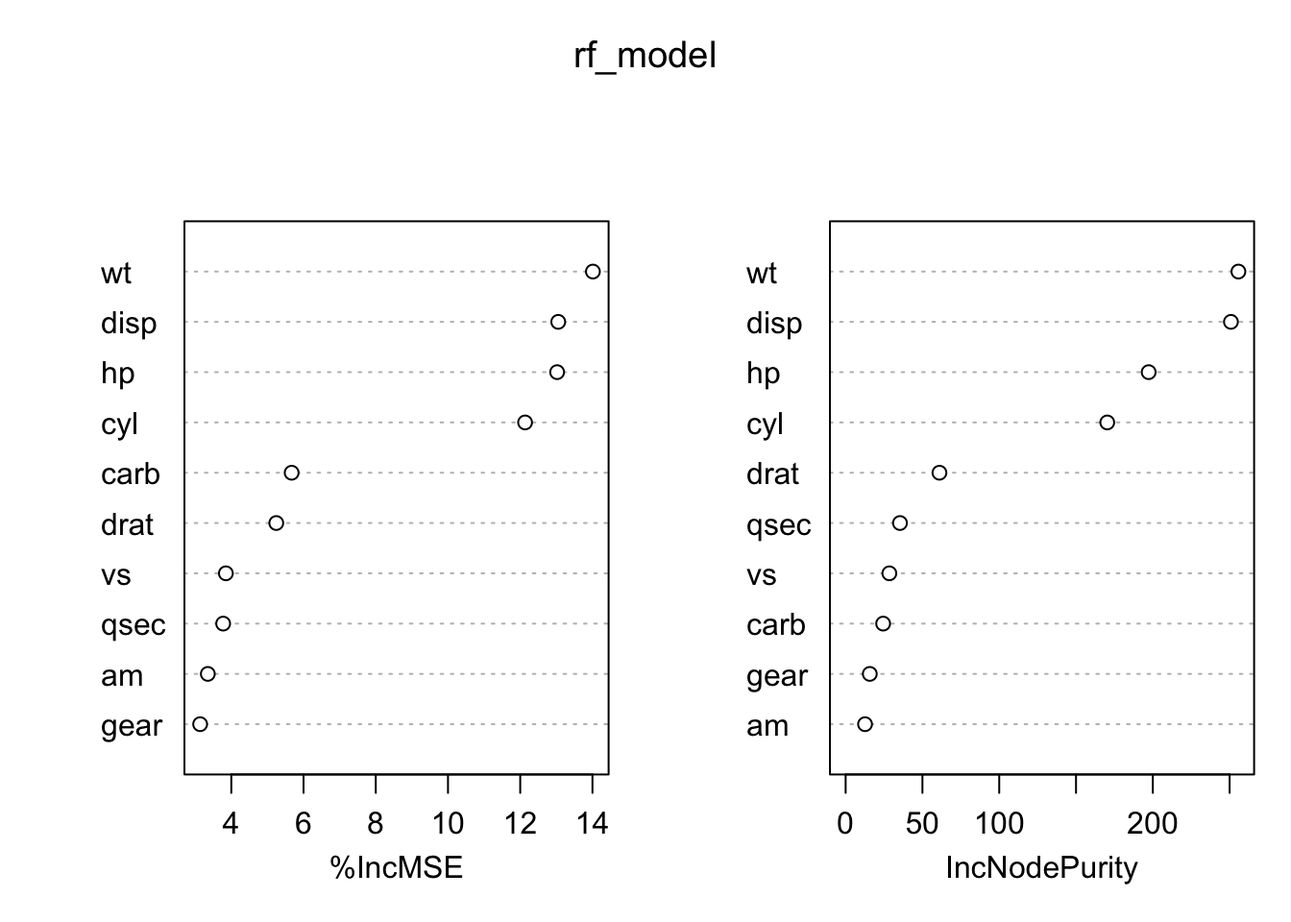
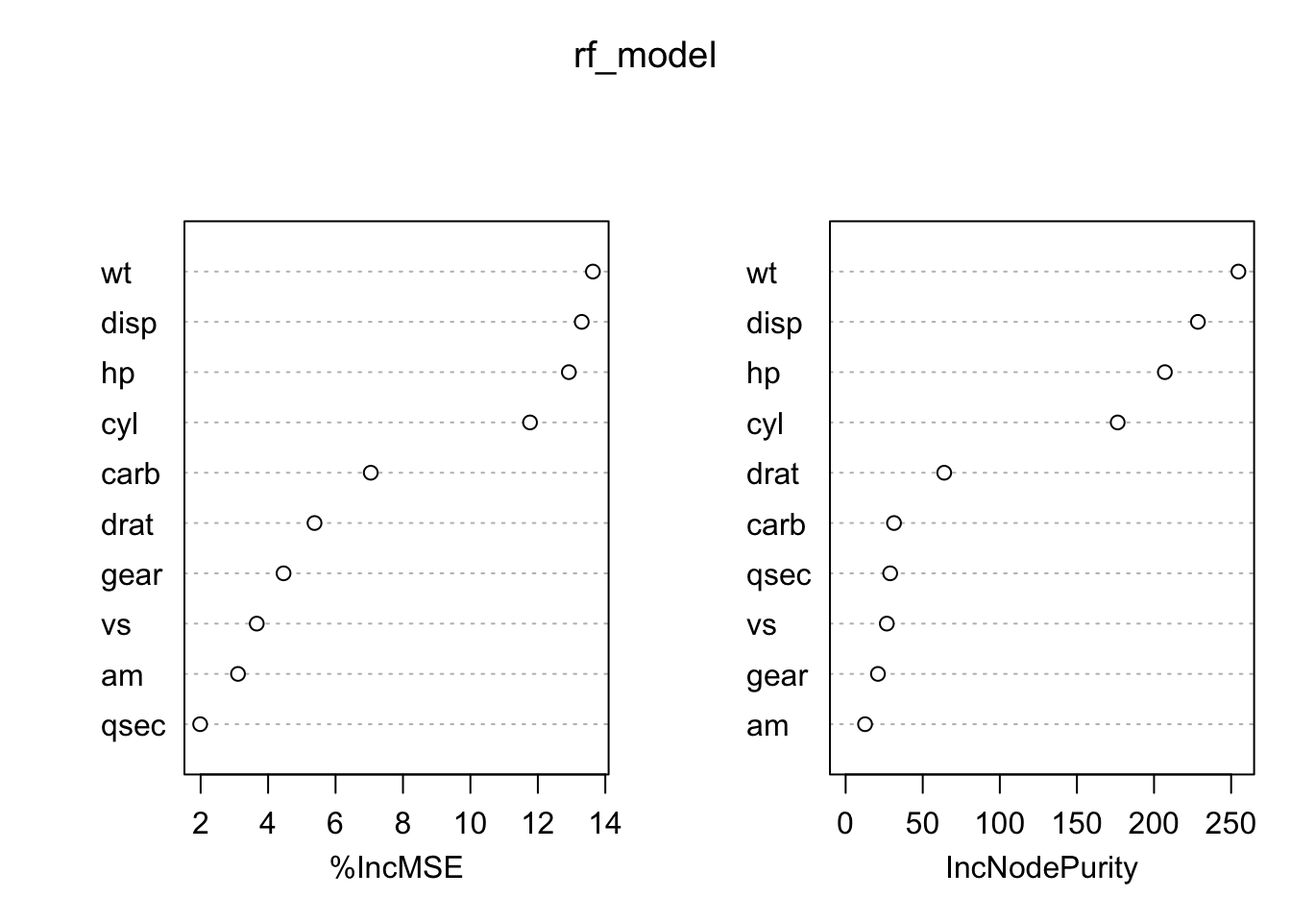
Built site for gh-pages

diff --git a/blog/reproducible-research-r-vs-python.html b/blog/reproducible-research-r-vs-python.html
@@ -531,8 +531,8 @@ F-statistic: 70.91 on 2 and 29 DF,  p-value: 6.809e-12</code></pre>
 <span id="cb12-9"><a href="#cb12-9" aria-hidden="true" tabindex="-1"></a><span class="fu">ggplotly</span>(p)</span></code><button title="Copy to Clipboard" class="code-copy-button"><i class="bi"></i></button></pre></div>
 </details>
 <div class="cell-output-display">
-<div class="plotly html-widget html-fill-item" id="htmlwidget-c5851ebdb1884abc7126" style="width:100%;height:464px;"></div>
-<script type="application/json" data-for="htmlwidget-c5851ebdb1884abc7126">{"x":{"data":[{"x":[2.3199999999999998,3.1899999999999999,3.1499999999999999,2.2000000000000002,1.615,1.835,2.4649999999999999,1.9350000000000001,2.1400000000000001,1.5129999999999999,2.7799999999999998],"y":[22.800000000000001,24.399999999999999,22.800000000000001,32.399999999999999,30.399999999999999,33.899999999999999,21.5,27.300000000000001,26,30.399999999999999,21.399999999999999],"text":["wt: 2.320<br />mpg: 22.8<br />factor(cyl): 4","wt: 3.190<br />mpg: 24.4<br />factor(cyl): 4","wt: 3.150<br />mpg: 22.8<br />factor(cyl): 4","wt: 2.200<br />mpg: 32.4<br />factor(cyl): 4","wt: 1.615<br />mpg: 30.4<br />factor(cyl): 4","wt: 1.835<br />mpg: 33.9<br />factor(cyl): 4","wt: 2.465<br />mpg: 21.5<br />factor(cyl): 4","wt: 1.935<br />mpg: 27.3<br />factor(cyl): 4","wt: 2.140<br />mpg: 26.0<br />factor(cyl): 4","wt: 1.513<br />mpg: 30.4<br />factor(cyl): 4","wt: 2.780<br />mpg: 21.4<br />factor(cyl): 4"],"type":"scatter","mode":"markers","marker":{"autocolorscale":false,"color":"rgba(248,118,109,1)","opacity":1,"size":5.6692913385826778,"symbol":"circle","line":{"width":1.8897637795275593,"color":"rgba(248,118,109,1)"}},"hoveron":"points","name":"4","legendgroup":"4","showlegend":true,"xaxis":"x","yaxis":"y","hoverinfo":"text","frame":null},{"x":[2.6200000000000001,2.875,3.2149999999999999,3.46,3.4399999999999999,3.4399999999999999,2.77],"y":[21,21,21.399999999999999,18.100000000000001,19.199999999999999,17.800000000000001,19.699999999999999],"text":["wt: 2.620<br />mpg: 21.0<br />factor(cyl): 6","wt: 2.875<br />mpg: 21.0<br />factor(cyl): 6","wt: 3.215<br />mpg: 21.4<br />factor(cyl): 6","wt: 3.460<br />mpg: 18.1<br />factor(cyl): 6","wt: 3.440<br />mpg: 19.2<br />factor(cyl): 6","wt: 3.440<br />mpg: 17.8<br />factor(cyl): 6","wt: 2.770<br />mpg: 19.7<br />factor(cyl): 6"],"type":"scatter","mode":"markers","marker":{"autocolorscale":false,"color":"rgba(0,186,56,1)","opacity":1,"size":5.6692913385826778,"symbol":"circle","line":{"width":1.8897637795275593,"color":"rgba(0,186,56,1)"}},"hoveron":"points","name":"6","legendgroup":"6","showlegend":true,"xaxis":"x","yaxis":"y","hoverinfo":"text","frame":null},{"x":[3.4399999999999999,3.5699999999999998,4.0700000000000003,3.73,3.7799999999999998,5.25,5.4240000000000004,5.3449999999999998,3.52,3.4350000000000001,3.8399999999999999,3.8450000000000002,3.1699999999999999,3.5699999999999998],"y":[18.699999999999999,14.300000000000001,16.399999999999999,17.300000000000001,15.199999999999999,10.4,10.4,14.699999999999999,15.5,15.199999999999999,13.300000000000001,19.199999999999999,15.800000000000001,15],"text":["wt: 3.440<br />mpg: 18.7<br />factor(cyl): 8","wt: 3.570<br />mpg: 14.3<br />factor(cyl): 8","wt: 4.070<br />mpg: 16.4<br />factor(cyl): 8","wt: 3.730<br />mpg: 17.3<br />factor(cyl): 8","wt: 3.780<br />mpg: 15.2<br />factor(cyl): 8","wt: 5.250<br />mpg: 10.4<br />factor(cyl): 8","wt: 5.424<br />mpg: 10.4<br />factor(cyl): 8","wt: 5.345<br />mpg: 14.7<br />factor(cyl): 8","wt: 3.520<br />mpg: 15.5<br />factor(cyl): 8","wt: 3.435<br />mpg: 15.2<br />factor(cyl): 8","wt: 3.840<br />mpg: 13.3<br />factor(cyl): 8","wt: 3.845<br />mpg: 19.2<br />factor(cyl): 8","wt: 3.170<br />mpg: 15.8<br />factor(cyl): 8","wt: 3.570<br />mpg: 15.0<br />factor(cyl): 8"],"type":"scatter","mode":"markers","marker":{"autocolorscale":false,"color":"rgba(97,156,255,1)","opacity":1,"size":5.6692913385826778,"symbol":"circle","line":{"width":1.8897637795275593,"color":"rgba(97,156,255,1)"}},"hoveron":"points","name":"8","legendgroup":"8","showlegend":true,"xaxis":"x","yaxis":"y","hoverinfo":"text","frame":null}],"layout":{"margin":{"t":26.228310502283108,"r":7.3059360730593621,"b":40.182648401826498,"l":37.260273972602747},"font":{"color":"rgba(0,0,0,1)","family":"","size":14.611872146118724},"xaxis":{"domain":[0,1],"automargin":true,"type":"linear","autorange":false,"range":[1.3174499999999998,5.6195500000000003],"tickmode":"array","ticktext":["2","3","4","5"],"tickvals":[2,3,4,5],"categoryorder":"array","categoryarray":["2","3","4","5"],"nticks":null,"ticks":"","tickcolor":null,"ticklen":3.6529680365296811,"tickwidth":0,"showticklabels":true,"tickfont":{"color":"rgba(77,77,77,1)","family":"","size":11.68949771689498},"tickangle":-0,"showline":false,"linecolor":null,"linewidth":0,"showgrid":true,"gridcolor":"rgba(235,235,235,1)","gridwidth":0.66417600664176002,"zeroline":false,"anchor":"y","title":{"text":"wt","font":{"color":"rgba(0,0,0,1)","family":"","size":14.611872146118724}},"hoverformat":".2f"},"yaxis":{"domain":[0,1],"automargin":true,"type":"linear","autorange":false,"range":[9.2249999999999996,35.074999999999996],"tickmode":"array","ticktext":["10","15","20","25","30","35"],"tickvals":[10,15,20,25,30,35],"categoryorder":"array","categoryarray":["10","15","20","25","30","35"],"nticks":null,"ticks":"","tickcolor":null,"ticklen":3.6529680365296811,"tickwidth":0,"showticklabels":true,"tickfont":{"color":"rgba(77,77,77,1)","family":"","size":11.68949771689498},"tickangle":-0,"showline":false,"linecolor":null,"linewidth":0,"showgrid":true,"gridcolor":"rgba(235,235,235,1)","gridwidth":0.66417600664176002,"zeroline":false,"anchor":"x","title":{"text":"mpg","font":{"color":"rgba(0,0,0,1)","family":"","size":14.611872146118724}},"hoverformat":".2f"},"shapes":[{"type":"rect","fillcolor":null,"line":{"color":null,"width":0,"linetype":[]},"yref":"paper","xref":"paper","layer":"below","x0":0,"x1":1,"y0":0,"y1":1}],"showlegend":true,"legend":{"bgcolor":null,"bordercolor":null,"borderwidth":0,"font":{"color":"rgba(0,0,0,1)","family":"","size":11.68949771689498},"title":{"text":"factor(cyl)","font":{"color":"rgba(0,0,0,1)","family":"","size":14.611872146118724}}},"hovermode":"closest","barmode":"relative"},"config":{"doubleClick":"reset","modeBarButtonsToAdd":["hoverclosest","hovercompare"],"showSendToCloud":false},"source":"A","attrs":{"c3fc1f81474f":{"x":{},"y":{},"colour":{},"type":"scatter"}},"cur_data":"c3fc1f81474f","visdat":{"c3fc1f81474f":["function (y) ","x"]},"highlight":{"on":"plotly_click","persistent":false,"dynamic":false,"selectize":false,"opacityDim":0.20000000000000001,"selected":{"opacity":1},"debounce":0},"shinyEvents":["plotly_hover","plotly_click","plotly_selected","plotly_relayout","plotly_brushed","plotly_brushing","plotly_clickannotation","plotly_doubleclick","plotly_deselect","plotly_afterplot","plotly_sunburstclick"],"base_url":"https://plot.ly"},"evals":[],"jsHooks":[]}</script>
+<div class="plotly html-widget html-fill-item" id="htmlwidget-7d97aec88c0efdbe97c2" style="width:100%;height:464px;"></div>
+<script type="application/json" data-for="htmlwidget-7d97aec88c0efdbe97c2">{"x":{"data":[{"x":[2.3199999999999998,3.1899999999999999,3.1499999999999999,2.2000000000000002,1.615,1.835,2.4649999999999999,1.9350000000000001,2.1400000000000001,1.5129999999999999,2.7799999999999998],"y":[22.800000000000001,24.399999999999999,22.800000000000001,32.399999999999999,30.399999999999999,33.899999999999999,21.5,27.300000000000001,26,30.399999999999999,21.399999999999999],"text":["wt: 2.320<br />mpg: 22.8<br />factor(cyl): 4","wt: 3.190<br />mpg: 24.4<br />factor(cyl): 4","wt: 3.150<br />mpg: 22.8<br />factor(cyl): 4","wt: 2.200<br />mpg: 32.4<br />factor(cyl): 4","wt: 1.615<br />mpg: 30.4<br />factor(cyl): 4","wt: 1.835<br />mpg: 33.9<br />factor(cyl): 4","wt: 2.465<br />mpg: 21.5<br />factor(cyl): 4","wt: 1.935<br />mpg: 27.3<br />factor(cyl): 4","wt: 2.140<br />mpg: 26.0<br />factor(cyl): 4","wt: 1.513<br />mpg: 30.4<br />factor(cyl): 4","wt: 2.780<br />mpg: 21.4<br />factor(cyl): 4"],"type":"scatter","mode":"markers","marker":{"autocolorscale":false,"color":"rgba(248,118,109,1)","opacity":1,"size":5.6692913385826778,"symbol":"circle","line":{"width":1.8897637795275593,"color":"rgba(248,118,109,1)"}},"hoveron":"points","name":"4","legendgroup":"4","showlegend":true,"xaxis":"x","yaxis":"y","hoverinfo":"text","frame":null},{"x":[2.6200000000000001,2.875,3.2149999999999999,3.46,3.4399999999999999,3.4399999999999999,2.77],"y":[21,21,21.399999999999999,18.100000000000001,19.199999999999999,17.800000000000001,19.699999999999999],"text":["wt: 2.620<br />mpg: 21.0<br />factor(cyl): 6","wt: 2.875<br />mpg: 21.0<br />factor(cyl): 6","wt: 3.215<br />mpg: 21.4<br />factor(cyl): 6","wt: 3.460<br />mpg: 18.1<br />factor(cyl): 6","wt: 3.440<br />mpg: 19.2<br />factor(cyl): 6","wt: 3.440<br />mpg: 17.8<br />factor(cyl): 6","wt: 2.770<br />mpg: 19.7<br />factor(cyl): 6"],"type":"scatter","mode":"markers","marker":{"autocolorscale":false,"color":"rgba(0,186,56,1)","opacity":1,"size":5.6692913385826778,"symbol":"circle","line":{"width":1.8897637795275593,"color":"rgba(0,186,56,1)"}},"hoveron":"points","name":"6","legendgroup":"6","showlegend":true,"xaxis":"x","yaxis":"y","hoverinfo":"text","frame":null},{"x":[3.4399999999999999,3.5699999999999998,4.0700000000000003,3.73,3.7799999999999998,5.25,5.4240000000000004,5.3449999999999998,3.52,3.4350000000000001,3.8399999999999999,3.8450000000000002,3.1699999999999999,3.5699999999999998],"y":[18.699999999999999,14.300000000000001,16.399999999999999,17.300000000000001,15.199999999999999,10.4,10.4,14.699999999999999,15.5,15.199999999999999,13.300000000000001,19.199999999999999,15.800000000000001,15],"text":["wt: 3.440<br />mpg: 18.7<br />factor(cyl): 8","wt: 3.570<br />mpg: 14.3<br />factor(cyl): 8","wt: 4.070<br />mpg: 16.4<br />factor(cyl): 8","wt: 3.730<br />mpg: 17.3<br />factor(cyl): 8","wt: 3.780<br />mpg: 15.2<br />factor(cyl): 8","wt: 5.250<br />mpg: 10.4<br />factor(cyl): 8","wt: 5.424<br />mpg: 10.4<br />factor(cyl): 8","wt: 5.345<br />mpg: 14.7<br />factor(cyl): 8","wt: 3.520<br />mpg: 15.5<br />factor(cyl): 8","wt: 3.435<br />mpg: 15.2<br />factor(cyl): 8","wt: 3.840<br />mpg: 13.3<br />factor(cyl): 8","wt: 3.845<br />mpg: 19.2<br />factor(cyl): 8","wt: 3.170<br />mpg: 15.8<br />factor(cyl): 8","wt: 3.570<br />mpg: 15.0<br />factor(cyl): 8"],"type":"scatter","mode":"markers","marker":{"autocolorscale":false,"color":"rgba(97,156,255,1)","opacity":1,"size":5.6692913385826778,"symbol":"circle","line":{"width":1.8897637795275593,"color":"rgba(97,156,255,1)"}},"hoveron":"points","name":"8","legendgroup":"8","showlegend":true,"xaxis":"x","yaxis":"y","hoverinfo":"text","frame":null}],"layout":{"margin":{"t":26.228310502283108,"r":7.3059360730593621,"b":40.182648401826498,"l":37.260273972602747},"font":{"color":"rgba(0,0,0,1)","family":"","size":14.611872146118724},"xaxis":{"domain":[0,1],"automargin":true,"type":"linear","autorange":false,"range":[1.3174499999999998,5.6195500000000003],"tickmode":"array","ticktext":["2","3","4","5"],"tickvals":[2,3,4,5],"categoryorder":"array","categoryarray":["2","3","4","5"],"nticks":null,"ticks":"","tickcolor":null,"ticklen":3.6529680365296811,"tickwidth":0,"showticklabels":true,"tickfont":{"color":"rgba(77,77,77,1)","family":"","size":11.68949771689498},"tickangle":-0,"showline":false,"linecolor":null,"linewidth":0,"showgrid":true,"gridcolor":"rgba(235,235,235,1)","gridwidth":0.66417600664176002,"zeroline":false,"anchor":"y","title":{"text":"wt","font":{"color":"rgba(0,0,0,1)","family":"","size":14.611872146118724}},"hoverformat":".2f"},"yaxis":{"domain":[0,1],"automargin":true,"type":"linear","autorange":false,"range":[9.2249999999999996,35.074999999999996],"tickmode":"array","ticktext":["10","15","20","25","30","35"],"tickvals":[10,15,20,25,30,35],"categoryorder":"array","categoryarray":["10","15","20","25","30","35"],"nticks":null,"ticks":"","tickcolor":null,"ticklen":3.6529680365296811,"tickwidth":0,"showticklabels":true,"tickfont":{"color":"rgba(77,77,77,1)","family":"","size":11.68949771689498},"tickangle":-0,"showline":false,"linecolor":null,"linewidth":0,"showgrid":true,"gridcolor":"rgba(235,235,235,1)","gridwidth":0.66417600664176002,"zeroline":false,"anchor":"x","title":{"text":"mpg","font":{"color":"rgba(0,0,0,1)","family":"","size":14.611872146118724}},"hoverformat":".2f"},"shapes":[{"type":"rect","fillcolor":null,"line":{"color":null,"width":0,"linetype":[]},"yref":"paper","xref":"paper","layer":"below","x0":0,"x1":1,"y0":0,"y1":1}],"showlegend":true,"legend":{"bgcolor":null,"bordercolor":null,"borderwidth":0,"font":{"color":"rgba(0,0,0,1)","family":"","size":11.68949771689498},"title":{"text":"factor(cyl)","font":{"color":"rgba(0,0,0,1)","family":"","size":14.611872146118724}}},"hovermode":"closest","barmode":"relative"},"config":{"doubleClick":"reset","modeBarButtonsToAdd":["hoverclosest","hovercompare"],"showSendToCloud":false},"source":"A","attrs":{"ca6b430faac6":{"x":{},"y":{},"colour":{},"type":"scatter"}},"cur_data":"ca6b430faac6","visdat":{"ca6b430faac6":["function (y) ","x"]},"highlight":{"on":"plotly_click","persistent":false,"dynamic":false,"selectize":false,"opacityDim":0.20000000000000001,"selected":{"opacity":1},"debounce":0},"shinyEvents":["plotly_hover","plotly_click","plotly_selected","plotly_relayout","plotly_brushed","plotly_brushing","plotly_clickannotation","plotly_doubleclick","plotly_deselect","plotly_afterplot","plotly_sunburstclick"],"base_url":"https://plot.ly"},"evals":[],"jsHooks":[]}</script>
 </div>
 </div>
 </section>

diff --git a/community.html b/community.html
@@ -198,7 +198,7 @@ pre > code.sourceCode > span > a:first-child::before { text-decoration: underlin
 <h3 data-number="1.1" class="anchored" data-anchor-id="heres-what-people-had-to-say."><span class="header-section-number">1.1</span> Here’s what people had to say.</h3>
 <div class="quarto-figure quarto-figure-center">
 <figure class="figure">
-<p><img src="community-images/simisani_ndaba.jpeg" class="img-fluid figure-img"></p>
+<p><img src="community-images/simisani_ndaba.png" class="img-fluid figure-img"></p>
 <figcaption>Simisani Ndaba, University of Botswana, co-founder and co-organizer of the R-Ladies Gaborone group</figcaption>
 </figure>
 </div>
@@ -212,6 +212,30 @@ University of Botswana, co-founder and co-organizer of the R-Ladies Gaborone gro
 <p><strong>Her opinion on the podcast:</strong></p>
 <blockquote class="blockquote">
 <p>The hosts have a solid grasp of R, not just in terms of its technical capabilities, but also more importantly, how and when it should be used in academia, providing great examples of situations in which R is and will remain necessary to many scholars. The discussion is at a sweet spot along the technical-to-accessible spectrum; it is technical enough to convey the message that R is good for specific things but does not imply that Python is uninviting. In summary, it is a well-produced and well-paced podcast that makes the case for R’s continued place in the statistics academy in an interesting way.</p>
+</blockquote>
+<hr>
+<div class="quarto-figure quarto-figure-center">
+<figure class="figure">
+<p><img src="community-images/ridwan_adejumo.png" class="img-fluid figure-img"></p>
+<figcaption>Ridwan Suleiman Adejumo, College of Nursing Science, Federal Teaching Hospital, Gombe, Data Scientist and Biostatistician</figcaption>
+</figure>
+</div>
+<p><strong>Ridwan Suleiman Adejumo</strong><br>
+College of Nursing Science, Federal Teaching Hospital, Gombe<br>
+Data Scientist and Biostatistician</p>
+<blockquote class="blockquote">
+<p>This is great, as the number of individuals trying to learn R is declining, and most people think R is meant for those in academia or Pharma. I think instead of showing R strengths, places where Python excel like llm development, prompt engineering, and AI agent development should be emphasized in R. Most individuals are not familiar that R can also do a lot of these things.</p>
+<p>Web development should not also be left behind, like developing APIs and backend applications with R.</p>
+</blockquote>
+<hr>
+<p><strong>His recommendations to improve content:</strong></p>
+<blockquote class="blockquote">
+<p>Statistical Modeling: Why R Outperforms Python The article lacks proper explanation of what’s happening in the code, and there is not test to actually measure the strengths and weakness of Python and R.</p>
+</blockquote>
+<hr>
+<p><strong>His opinion on the podcast:</strong></p>
+<blockquote class="blockquote">
+<p>I like the podcast, and it’s clear and interactive. The presenters explained a lot of the strengths of R.</p>
 </blockquote>
 <p><em>More community testimonials and feedback will be added here as we grow.</em></p>
 <hr>
@@ -710,7 +734,7 @@ window.document.addEventListener("DOMContentLoaded", function (event) {
 <span id="cb1-8"><a href="#cb1-8" aria-hidden="true" tabindex="-1"></a></span>
 <span id="cb1-9"><a href="#cb1-9" aria-hidden="true" tabindex="-1"></a><span class="fu">### Here's what people had to say.</span></span>
 <span id="cb1-10"><a href="#cb1-10" aria-hidden="true" tabindex="-1"></a></span>
-<span id="cb1-11"><a href="#cb1-11" aria-hidden="true" tabindex="-1"></a><span class="al">![Simisani Ndaba, University of Botswana, co-founder and co-organizer of the R-Ladies Gaborone group](community-images/simisani_ndaba.jpeg)</span></span>
+<span id="cb1-11"><a href="#cb1-11" aria-hidden="true" tabindex="-1"></a><span class="al">![Simisani Ndaba, University of Botswana, co-founder and co-organizer of the R-Ladies Gaborone group](community-images/simisani_ndaba.png)</span></span>
 <span id="cb1-12"><a href="#cb1-12" aria-hidden="true" tabindex="-1"></a></span>
 <span id="cb1-13"><a href="#cb1-13" aria-hidden="true" tabindex="-1"></a>**Simisani Ndaba**  </span>
 <span id="cb1-14"><a href="#cb1-14" aria-hidden="true" tabindex="-1"></a>University of Botswana, co-founder and co-organizer of the R-Ladies Gaborone group</span>
@@ -723,13 +747,38 @@ window.document.addEventListener("DOMContentLoaded", function (event) {
 <span id="cb1-21"><a href="#cb1-21" aria-hidden="true" tabindex="-1"></a></span>
 <span id="cb1-22"><a href="#cb1-22" aria-hidden="true" tabindex="-1"></a>**Her opinion on the podcast:**</span>
 <span id="cb1-23"><a href="#cb1-23" aria-hidden="true" tabindex="-1"></a></span>
-<span id="cb1-24"><a href="#cb1-24" aria-hidden="true" tabindex="-1"></a><span class="at">&gt; The hosts have a solid grasp of R, not just in terms of its technical capabilities, but also more importantly, how and when it should be used in academia, providing great examples of situations in which R is and will remain necessary to many scholars. The discussion is at a sweet spot along the technical-to-accessible spectrum; it is technical enough to convey the message that R is good for specific things but does not imply that Python is uninviting. In summary, it is a well-produced and well-paced podcast that makes the case for R’s continued place in the statistics academy in an interesting way.</span></span>
+<span id="cb1-24"><a href="#cb1-24" aria-hidden="true" tabindex="-1"></a><span class="at">&gt; The hosts have a solid grasp of R, not just in terms of its technical capabilities, but also more importantly, how and when it should be used in academia, providing great examples of situations in which R is and will remain necessary to many scholars. The discussion is at a sweet spot along the technical-to-accessible spectrum; it is technical enough to convey the message that R is good for specific things but does not imply that Python is uninviting. In summary, it is a well-produced and well-paced podcast that makes the case for R's continued place in the statistics academy in an interesting way.</span></span>
 <span id="cb1-25"><a href="#cb1-25" aria-hidden="true" tabindex="-1"></a></span>
-<span id="cb1-26"><a href="#cb1-26" aria-hidden="true" tabindex="-1"></a>*More community testimonials and feedback will be added here as we grow.*</span>
+<span id="cb1-26"><a href="#cb1-26" aria-hidden="true" tabindex="-1"></a>---</span>
 <span id="cb1-27"><a href="#cb1-27" aria-hidden="true" tabindex="-1"></a></span>
-<span id="cb1-28"><a href="#cb1-28" aria-hidden="true" tabindex="-1"></a>---</span>
+<span id="cb1-28"><a href="#cb1-28" aria-hidden="true" tabindex="-1"></a><span class="al">![Ridwan Suleiman Adejumo, College of Nursing Science, Federal Teaching Hospital, Gombe, Data Scientist and Biostatistician](community-images/ridwan_adejumo.png)</span></span>
 <span id="cb1-29"><a href="#cb1-29" aria-hidden="true" tabindex="-1"></a></span>
-<span id="cb1-30"><a href="#cb1-30" aria-hidden="true" tabindex="-1"></a>*Join our community and help shape the future of R Beats Python.* </span></code><button title="Copy to Clipboard" class="code-copy-button" data-in-quarto-modal=""><i class="bi"></i></button></pre></div>
+<span id="cb1-30"><a href="#cb1-30" aria-hidden="true" tabindex="-1"></a>**Ridwan Suleiman Adejumo**  </span>
+<span id="cb1-31"><a href="#cb1-31" aria-hidden="true" tabindex="-1"></a>College of Nursing Science, Federal Teaching Hospital, Gombe  </span>
+<span id="cb1-32"><a href="#cb1-32" aria-hidden="true" tabindex="-1"></a>Data Scientist and Biostatistician</span>
+<span id="cb1-33"><a href="#cb1-33" aria-hidden="true" tabindex="-1"></a></span>
+<span id="cb1-34"><a href="#cb1-34" aria-hidden="true" tabindex="-1"></a><span class="at">&gt; This is great, as the number of individuals trying to learn R is declining, and most people think R is meant for those in academia or Pharma. I think instead of showing R strengths, places where Python excel like llm development, prompt engineering, and AI agent development should be emphasized in R. Most individuals are not familiar that R can also do a lot of these things.</span></span>
+<span id="cb1-35"><a href="#cb1-35" aria-hidden="true" tabindex="-1"></a><span class="at">&gt;</span></span>
+<span id="cb1-36"><a href="#cb1-36" aria-hidden="true" tabindex="-1"></a><span class="at">&gt; Web development should not also be left behind, like developing APIs and backend applications with R.</span></span>
+<span id="cb1-37"><a href="#cb1-37" aria-hidden="true" tabindex="-1"></a></span>
+<span id="cb1-38"><a href="#cb1-38" aria-hidden="true" tabindex="-1"></a>---</span>
+<span id="cb1-39"><a href="#cb1-39" aria-hidden="true" tabindex="-1"></a></span>
+<span id="cb1-40"><a href="#cb1-40" aria-hidden="true" tabindex="-1"></a>**His recommendations to improve content:**</span>
+<span id="cb1-41"><a href="#cb1-41" aria-hidden="true" tabindex="-1"></a></span>
+<span id="cb1-42"><a href="#cb1-42" aria-hidden="true" tabindex="-1"></a><span class="at">&gt; Statistical Modeling: Why R Outperforms Python</span></span>
+<span id="cb1-43"><a href="#cb1-43" aria-hidden="true" tabindex="-1"></a><span class="at">&gt; The article lacks proper explanation of what's happening in the code, and there is not test to actually measure the strengths and weakness of Python and R.</span></span>
+<span id="cb1-44"><a href="#cb1-44" aria-hidden="true" tabindex="-1"></a></span>
+<span id="cb1-45"><a href="#cb1-45" aria-hidden="true" tabindex="-1"></a>---</span>
+<span id="cb1-46"><a href="#cb1-46" aria-hidden="true" tabindex="-1"></a></span>
+<span id="cb1-47"><a href="#cb1-47" aria-hidden="true" tabindex="-1"></a>**His opinion on the podcast:**</span>
+<span id="cb1-48"><a href="#cb1-48" aria-hidden="true" tabindex="-1"></a></span>
+<span id="cb1-49"><a href="#cb1-49" aria-hidden="true" tabindex="-1"></a><span class="at">&gt; I like the podcast, and it's clear and interactive. The presenters explained a lot of the strengths of R.</span></span>
+<span id="cb1-50"><a href="#cb1-50" aria-hidden="true" tabindex="-1"></a></span>
+<span id="cb1-51"><a href="#cb1-51" aria-hidden="true" tabindex="-1"></a>*More community testimonials and feedback will be added here as we grow.*</span>
+<span id="cb1-52"><a href="#cb1-52" aria-hidden="true" tabindex="-1"></a></span>
+<span id="cb1-53"><a href="#cb1-53" aria-hidden="true" tabindex="-1"></a>---</span>
+<span id="cb1-54"><a href="#cb1-54" aria-hidden="true" tabindex="-1"></a></span>
+<span id="cb1-55"><a href="#cb1-55" aria-hidden="true" tabindex="-1"></a>*Join our community and help shape the future of R Beats Python.* </span></code><button title="Copy to Clipboard" class="code-copy-button" data-in-quarto-modal=""><i class="bi"></i></button></pre></div>
 </div></div></div></div></div>
 </div> <!-- /content -->
 

diff --git a/blog/machine-learning-r-vs-python.html b/blog/machine-learning-r-vs-python.html
@@ -453,16 +453,16 @@ Signif. codes:  0 '***' 0.001 '**' 0.01 '*' 0.05 '.' 0.1 ' ' 1</code></pre>
 </details>
 <div class="cell-output cell-output-stdout">
 <pre><code>       %IncMSE IncNodePurity
-cyl  12.134487     170.33201
-disp 13.052545     250.86295
-hp   13.021719     197.30288
-drat  5.245454      61.08100
-wt   14.012262     255.72348
-qsec  3.774548      35.37813
-vs    3.850112      28.46070
-am    3.350220      12.63276
-gear  3.137300      15.73011
-carb  5.671200      24.41823</code></pre>
+cyl  11.767708     176.41675
+disp 13.302091     228.45185
+hp   12.919588     207.02402
+drat  5.376666      63.92612
+wt   13.632410     254.70820
+qsec  1.984342      28.87912
+vs    3.663271      26.70093
+am    3.106836      12.58880
+gear  4.458383      20.94952
+carb  7.044388      31.37366</code></pre>
 </div>
 <details class="code-fold">
 <summary>Code</summary>
@@ -518,15 +518,15 @@ carb  5.671200      24.41823</code></pre>
 </div>
 <div class="cell-output cell-output-stdout">
 <pre><code>      var     rel.inf
-disp disp 39.99942971
-wt     wt 19.79558782
-hp     hp 18.27428815
-cyl   cyl 14.76386803
-qsec qsec  2.98962306
-drat drat  2.59317982
-carb carb  1.23475372
-gear gear  0.26204316
-vs     vs  0.08722652
+wt     wt 34.92417648
+hp     hp 29.36343552
+disp disp 18.96579860
+cyl   cyl 11.29558179
+drat drat  2.84894570
+qsec qsec  2.22214032
+carb carb  0.17919291
+gear gear  0.16961264
+vs     vs  0.03111605
 am     am  0.00000000</code></pre>
 </div>
 <details class="code-fold">
@@ -665,8 +665,8 @@ W = 0.93455, p-value = 0.05252</code></pre>
 <pre><code>
 SAMPLING FOR MODEL 'continuous' NOW (CHAIN 1).
 Chain 1: 
-Chain 1: Gradient evaluation took 0.000214 seconds
-Chain 1: 1000 transitions using 10 leapfrog steps per transition would take 2.14 seconds.
+Chain 1: Gradient evaluation took 0.000634 seconds
+Chain 1: 1000 transitions using 10 leapfrog steps per transition would take 6.34 seconds.
 Chain 1: Adjust your expectations accordingly!
 Chain 1: 
 Chain 1: 
@@ -683,15 +683,15 @@ Chain 1: Iteration: 1600 / 2000 [ 80%]  (Sampling)
 Chain 1: Iteration: 1800 / 2000 [ 90%]  (Sampling)
 Chain 1: Iteration: 2000 / 2000 [100%]  (Sampling)
 Chain 1: 
-Chain 1:  Elapsed Time: 0.04 seconds (Warm-up)
-Chain 1:                0.03 seconds (Sampling)
-Chain 1:                0.07 seconds (Total)
+Chain 1:  Elapsed Time: 0.031 seconds (Warm-up)
+Chain 1:                0.026 seconds (Sampling)
+Chain 1:                0.057 seconds (Total)
 Chain 1: 
 
 SAMPLING FOR MODEL 'continuous' NOW (CHAIN 2).
 Chain 2: 
-Chain 2: Gradient evaluation took 4e-06 seconds
-Chain 2: 1000 transitions using 10 leapfrog steps per transition would take 0.04 seconds.
+Chain 2: Gradient evaluation took 5e-06 seconds
+Chain 2: 1000 transitions using 10 leapfrog steps per transition would take 0.05 seconds.
 Chain 2: Adjust your expectations accordingly!
 Chain 2: 
 Chain 2: 
@@ -708,15 +708,15 @@ Chain 2: Iteration: 1600 / 2000 [ 80%]  (Sampling)
 Chain 2: Iteration: 1800 / 2000 [ 90%]  (Sampling)
 Chain 2: Iteration: 2000 / 2000 [100%]  (Sampling)
 Chain 2: 
-Chain 2:  Elapsed Time: 0.032 seconds (Warm-up)
-Chain 2:                0.03 seconds (Sampling)
-Chain 2:                0.062 seconds (Total)
+Chain 2:  Elapsed Time: 0.033 seconds (Warm-up)
+Chain 2:                0.033 seconds (Sampling)
+Chain 2:                0.066 seconds (Total)
 Chain 2: 
 
 SAMPLING FOR MODEL 'continuous' NOW (CHAIN 3).
 Chain 3: 
-Chain 3: Gradient evaluation took 3e-06 seconds
-Chain 3: 1000 transitions using 10 leapfrog steps per transition would take 0.03 seconds.
+Chain 3: Gradient evaluation took 4e-06 seconds
+Chain 3: 1000 transitions using 10 leapfrog steps per transition would take 0.04 seconds.
 Chain 3: Adjust your expectations accordingly!
 Chain 3: 
 Chain 3: 
@@ -733,9 +733,9 @@ Chain 3: Iteration: 1600 / 2000 [ 80%]  (Sampling)
 Chain 3: Iteration: 1800 / 2000 [ 90%]  (Sampling)
 Chain 3: Iteration: 2000 / 2000 [100%]  (Sampling)
 Chain 3: 
-Chain 3:  Elapsed Time: 0.029 seconds (Warm-up)
-Chain 3:                0.035 seconds (Sampling)
-Chain 3:                0.064 seconds (Total)
+Chain 3:  Elapsed Time: 0.032 seconds (Warm-up)
+Chain 3:                0.03 seconds (Sampling)
+Chain 3:                0.062 seconds (Total)
 Chain 3: 
 
 SAMPLING FOR MODEL 'continuous' NOW (CHAIN 4).
@@ -758,9 +758,9 @@ Chain 4: Iteration: 1600 / 2000 [ 80%]  (Sampling)
 Chain 4: Iteration: 1800 / 2000 [ 90%]  (Sampling)
 Chain 4: Iteration: 2000 / 2000 [100%]  (Sampling)
 Chain 4: 
-Chain 4:  Elapsed Time: 0.035 seconds (Warm-up)
-Chain 4:                0.031 seconds (Sampling)
-Chain 4:                0.066 seconds (Total)
+Chain 4:  Elapsed Time: 0.038 seconds (Warm-up)
+Chain 4:                0.036 seconds (Sampling)
+Chain 4:                0.074 seconds (Total)
 Chain 4: </code></pre>
 </div>
 <details class="code-fold">
@@ -770,10 +770,10 @@ Chain 4: </code></pre>
 </details>
 <div class="cell-output cell-output-stdout">
 <pre><code>                   5%        95%
-(Intercept) 36.634059 42.7738202
-wt          -4.467680 -1.8271259
-cyl         -2.264268 -0.8025825
-sigma        2.138169  3.3432458</code></pre>
+(Intercept) 36.602158 42.6371633
+wt          -4.454639 -1.8956190
+cyl         -2.193726 -0.7976425
+sigma        2.136489  3.3113942</code></pre>
 </div>
 <details class="code-fold">
 <summary>Code</summary>

diff --git a/blog/time-series-analysis-r-vs-python.html b/blog/time-series-analysis-r-vs-python.html
@@ -426,16 +426,16 @@ Model df: 1.   Total lags used: 5</code></pre>
 <span id="cb15-8"><a href="#cb15-8" aria-hidden="true" tabindex="-1"></a>bsts_model <span class="ot">&lt;-</span> <span class="fu">bsts</span>(ts_data, <span class="at">state.specification =</span> ss_model, <span class="at">niter =</span> <span class="dv">1000</span>)</span></code><button title="Copy to Clipboard" class="code-copy-button"><i class="bi"></i></button></pre></div>
 </details>
 <div class="cell-output cell-output-stdout">
-<pre><code>=-=-=-=-= Iteration 0 Fri Jul 11 11:44:14 2025 =-=-=-=-=
-=-=-=-=-= Iteration 100 Fri Jul 11 11:44:14 2025 =-=-=-=-=
-=-=-=-=-= Iteration 200 Fri Jul 11 11:44:14 2025 =-=-=-=-=
-=-=-=-=-= Iteration 300 Fri Jul 11 11:44:14 2025 =-=-=-=-=
-=-=-=-=-= Iteration 400 Fri Jul 11 11:44:14 2025 =-=-=-=-=
-=-=-=-=-= Iteration 500 Fri Jul 11 11:44:14 2025 =-=-=-=-=
-=-=-=-=-= Iteration 600 Fri Jul 11 11:44:14 2025 =-=-=-=-=
-=-=-=-=-= Iteration 700 Fri Jul 11 11:44:14 2025 =-=-=-=-=
-=-=-=-=-= Iteration 800 Fri Jul 11 11:44:14 2025 =-=-=-=-=
-=-=-=-=-= Iteration 900 Fri Jul 11 11:44:14 2025 =-=-=-=-=</code></pre>
+<pre><code>=-=-=-=-= Iteration 0 Fri Jul 11 12:02:10 2025 =-=-=-=-=
+=-=-=-=-= Iteration 100 Fri Jul 11 12:02:10 2025 =-=-=-=-=
+=-=-=-=-= Iteration 200 Fri Jul 11 12:02:10 2025 =-=-=-=-=
+=-=-=-=-= Iteration 300 Fri Jul 11 12:02:10 2025 =-=-=-=-=
+=-=-=-=-= Iteration 400 Fri Jul 11 12:02:10 2025 =-=-=-=-=
+=-=-=-=-= Iteration 500 Fri Jul 11 12:02:10 2025 =-=-=-=-=
+=-=-=-=-= Iteration 600 Fri Jul 11 12:02:10 2025 =-=-=-=-=
+=-=-=-=-= Iteration 700 Fri Jul 11 12:02:10 2025 =-=-=-=-=
+=-=-=-=-= Iteration 800 Fri Jul 11 12:02:10 2025 =-=-=-=-=
+=-=-=-=-= Iteration 900 Fri Jul 11 12:02:10 2025 =-=-=-=-=</code></pre>
 </div>
 <details class="code-fold">
 <summary>Code</summary>

diff --git a/blog/academic-research-r-vs-python.html b/blog/academic-research-r-vs-python.html
@@ -476,7 +476,7 @@ Signif. codes:  0 '***' 0.001 '**' 0.01 '*' 0.05 '.' 0.1 ' ' 1</code></pre>
 </details>
 <div class="cell-output cell-output-stdout">
 <pre><code>% latex table generated in R 4.5.0 by xtable 1.8-4 package
-% Fri Jul 11 11:44:02 2025
+% Fri Jul 11 12:01:59 2025
 \begin{table}[ht]
 \centering
 \begin{tabular}{rrrrr}
@@ -502,7 +502,7 @@ Signif. codes:  0 '***' 0.001 '**' 0.01 '*' 0.05 '.' 0.1 ' ' 1</code></pre>
 <div class="cell-output cell-output-stdout">
 <pre><code>
 % Table created by stargazer v.5.2.3 by Marek Hlavac, Social Policy Institute. E-mail: marek.hlavac at gmail.com
-% Date and time: Fri, Jul 11, 2025 - 11:44:02
+% Date and time: Fri, Jul 11, 2025 - 12:01:59
 \begin{table}[!htbp] \centering 
   \caption{Regression Results} 
   \label{} 

diff --git a/blog/statistical-modeling-r-vs-python.html b/blog/statistical-modeling-r-vs-python.html
@@ -626,7 +626,7 @@ sample estimates:
 </details>
 <div class="cell-output cell-output-stdout">
 <pre><code> lag Autocorrelation D-W Statistic p-value
-   1       0.1302185      1.671096    0.26
+   1       0.1302185      1.671096   0.288
  Alternative hypothesis: rho != 0</code></pre>
 </div>
 </div>
